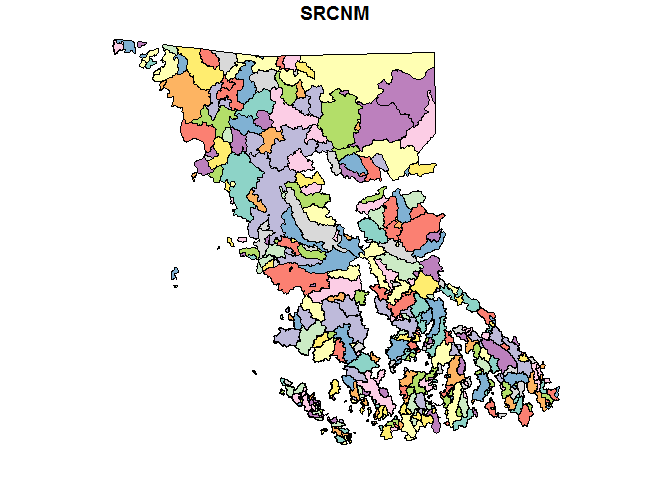
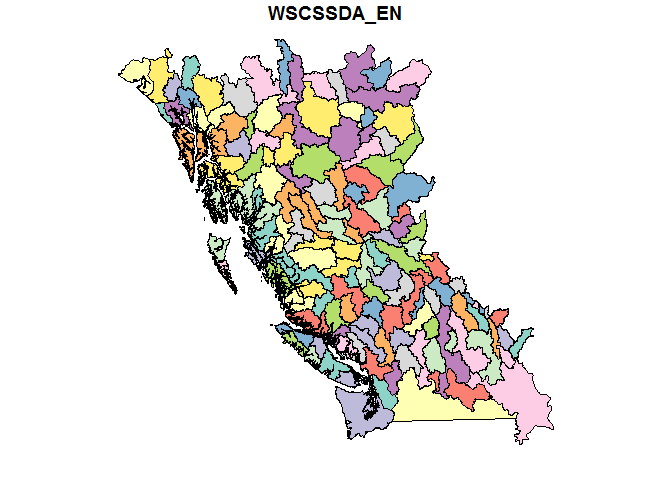
remove watersheds

Changed region(s): [[0.1562, 0.0, 0.8438, 0.9375], [0.3438, 0.5938, 0.375, 0.625], [0.25, 0.5625, 0.2812, 0.5938]]

diff --git a/README.md b/README.md
@@ -45,51 +45,47 @@ available_layers()
 #> 1            airzones                         British Columbia Air Zones
 #> 2            bc_bound                                        BC Boundary
 #> 3       bc_bound_hres                      BC Boundary - High Resolution
-#> 4                 bec                           British Columbia BEC Map
-#> 5        ecoprovinces                      British Columbia Ecoprovinces
-#> 6          ecoregions                        British Columbia Ecoregions
-#> 7         ecosections                       British Columbia Ecosections
-#> 8         gw_aquifers British Columbia's developed ground water aquifers
-#> 9          hydrozones     Hydrologic Zone Boundaries of British Columbia
-#> 10     municipalities                    British Columbia Municipalities
-#> 11           nr_areas       British Columbia Natural Resource (NR) Areas
-#> 12       nr_districts   British Columbia Natural Resource (NR) Districts
-#> 13         nr_regions     British Columbia Natural Resource (NR) Regions
-#> 14 regional_districts                British Columbia Regional Districts
-#> 15    water_districts      British Columbia's Water Management Districts
-#> 16    water_precincts      British Columbia's Water Management Precincts
-#> 17   watercourses_15M       British Columbia watercourses at 1:15M scale
-#> 18    watercourses_5M        British Columbia watercourses at 1:5M scale
-#> 19         watersheds  British Columbia Hydrometric Watershed Boundaries
-#> 20      wsc_drainages      Water Survey of Canada Sub-Sub-Drainage Areas
+#> 4        ecoprovinces                      British Columbia Ecoprovinces
+#> 5          ecoregions                        British Columbia Ecoregions
+#> 6         ecosections                       British Columbia Ecosections
+#> 7         gw_aquifers British Columbia's developed ground water aquifers
+#> 8          hydrozones     Hydrologic Zone Boundaries of British Columbia
+#> 9      municipalities                    British Columbia Municipalities
+#> 10           nr_areas       British Columbia Natural Resource (NR) Areas
+#> 11       nr_districts   British Columbia Natural Resource (NR) Districts
+#> 12         nr_regions     British Columbia Natural Resource (NR) Regions
+#> 13 regional_districts                British Columbia Regional Districts
+#> 14    water_districts      British Columbia's Water Management Districts
+#> 15    water_precincts      British Columbia's Water Management Precincts
+#> 16   watercourses_15M       British Columbia watercourses at 1:15M scale
+#> 17    watercourses_5M        British Columbia watercourses at 1:5M scale
+#> 18      wsc_drainages      Water Survey of Canada Sub-Sub-Drainage Areas
 #>     shortcut_function
 #> 1            airzones
 #> 2            bc_bound
 #> 3       bc_bound_hres
-#> 4                 bec
-#> 5        ecoprovinces
-#> 6          ecoregions
-#> 7         ecosections
-#> 8         gw_aquifers
-#> 9          hydrozones
-#> 10     municipalities
-#> 11           nr_areas
-#> 12       nr_districts
-#> 13         nr_regions
-#> 14 regional_districts
-#> 15    water_districts
-#> 16    water_precincts
-#> 17   watercourses_15M
-#> 18    watercourses_5M
-#> 19         watersheds
-#> 20      wsc_drainages
+#> 4        ecoprovinces
+#> 5          ecoregions
+#> 6                <NA>
+#> 7         gw_aquifers
+#> 8          hydrozones
+#> 9      municipalities
+#> 10           nr_areas
+#> 11       nr_districts
+#> 12         nr_regions
+#> 13 regional_districts
+#> 14    water_districts
+#> 15    water_precincts
+#> 16   watercourses_15M
+#> 17    watercourses_5M
+#> 18      wsc_drainages
 ```
 
 Most layers are accessible by a shortcut function by the same name as the object. Then you can use the data as you would any `sf` or `Spatial` object. For example:
 
 ``` r
 library(sf)
-#> Linking to GEOS 3.6.2, GDAL 2.2.2, proj.4 4.9.3, lwgeom 2.4.0 r15853
+#> Linking to GEOS 3.6.1, GDAL 2.2.0, proj.4 4.9.3
 
 bc <- bc_bound()
 plot(st_geometry(bc))
@@ -102,18 +98,10 @@ Alternatively, you can use the `get_layer` function - simply type `get_layer('la
 ``` r
 library(sf)
 library(dplyr)
-#> 
-#> Attaching package: 'dplyr'
-#> The following objects are masked from 'package:stats':
-#> 
-#>     filter, lag
-#> The following objects are masked from 'package:base':
-#> 
-#>     intersect, setdiff, setequal, union
 
-ws <- get_layer("watersheds", class = "sf")
+ws <- get_layer("wsc_drainages", class = "sf")
 
-plot(ws["SRCNM"], key.pos = NULL)
+plot(ws["WSCSSDA_EN"], key.pos = NULL)
 ```
 
 ![](tools/readme/unnamed-chunk-6-1.png)
